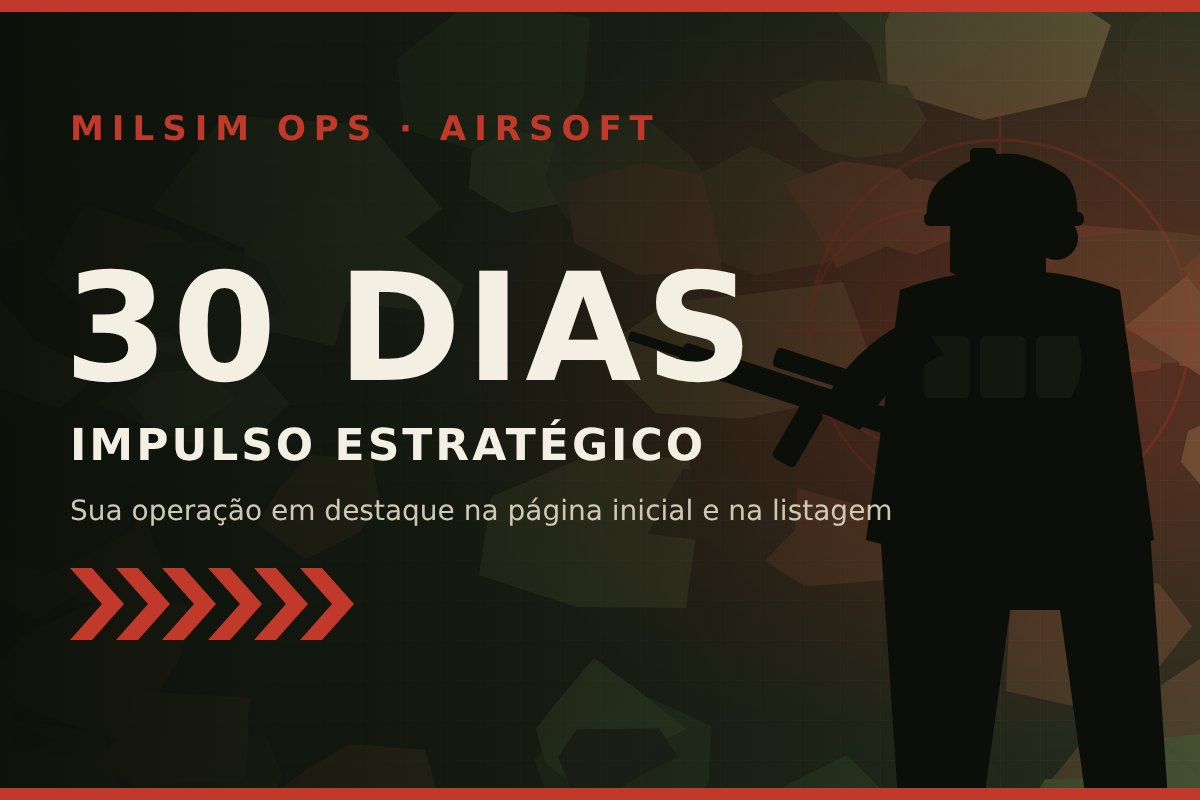
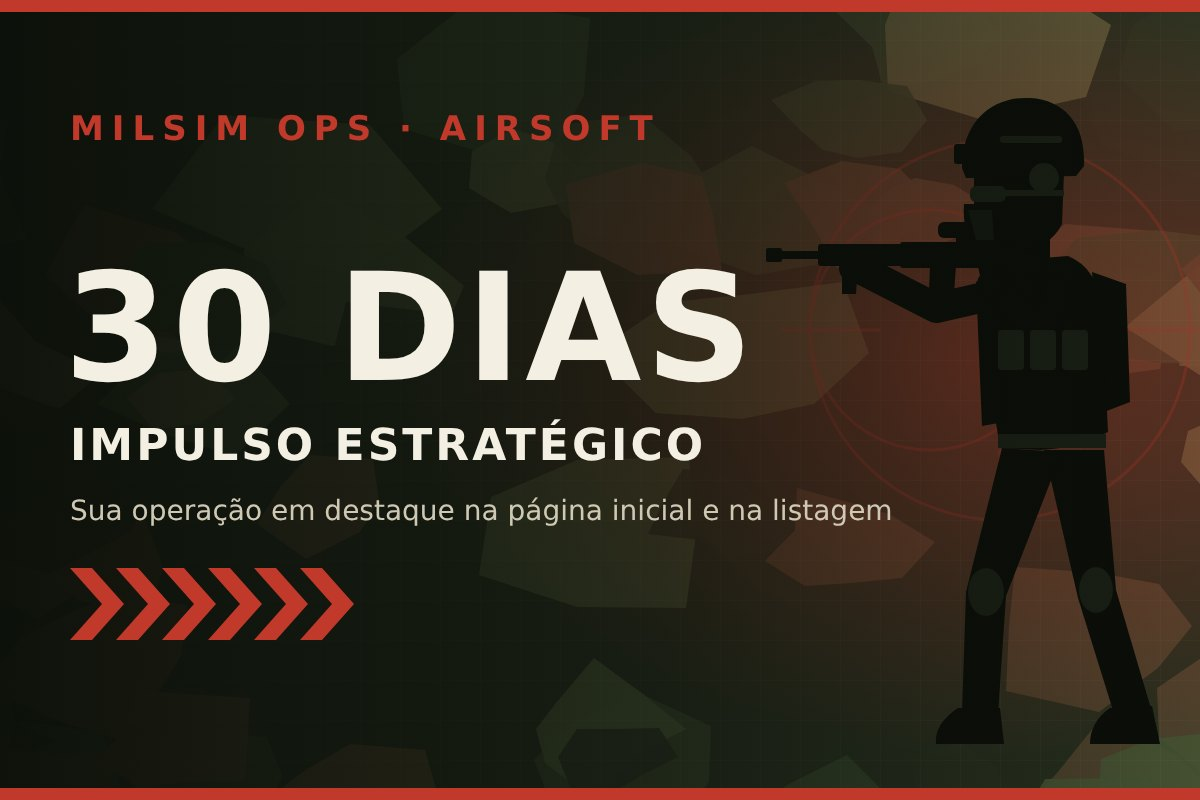
Impulsos: nova silhueta de jogador de airsoft nas imagens dos 6 tipos
Troca só o desenho do jogador (postura de tiro, capacete, óculos, máscara,
colete, fuzil com mira); fundo, textos e cores ficam iguais.

Claude-Session: https://claude.ai/code/session_01RaLvxWnWrGCJFbqJLitaMx

Changed region(s): [[0.5242, 0.125, 0.9867, 1.0]]

diff --git a/scripts/imagens-impulsos.py b/scripts/imagens-impulsos.py
@@ -19,32 +19,55 @@ def camo(seed):
         out.append(f'<polygon points="{" ".join(pts)}" fill="{r.choice(cores)}" opacity="0.9"/>')
     return "\n".join(out)
 # operator silhouette kneeling with rifle, right side
-OPERADOR='''<g transform="translate(820,120)" fill="#0b0e09">
- <!-- capacete com NVG e fone -->
- <path d="M120 60 q60 -50 125 -6 q14 14 12 44 l-150 0 q-2 -24 13 -38z"/>
- <rect x="104" y="92" width="160" height="14" rx="6"/>
- <rect x="150" y="28" width="26" height="30" rx="5"/>
- <circle cx="236" cy="118" r="22"/>
- <!-- rosto e pescoço -->
- <path d="M130 106 h96 v46 q-48 26 -96 0z"/>
- <!-- tronco com plate carrier -->
- <path d="M80 170 q110 -40 220 0 l34 250 q-144 40 -288 0z"/>
- <g fill="#161c12"><rect x="104" y="216" width="46" height="62" rx="6"/><rect x="160" y="216" width="46" height="62" rx="6"/><rect x="216" y="216" width="46" height="62" rx="6"/></g>
- <!-- braço de apoio -->
- <path d="M96 196 q-70 34 -96 96 l40 18 q30 -50 84 -76z"/>
- <!-- fuzil apontado para baixo, à esquerda -->
- <g transform="rotate(18 60 300)">
-  <rect x="-150" y="286" width="300" height="26" rx="6"/>
-  <rect x="-205" y="292" width="62" height="10" rx="3"/>
-  <rect x="-60" y="262" width="110" height="20" rx="5"/>
-  <rect x="-20" y="310" width="26" height="62" rx="5" transform="rotate(12 -7 310)"/>
-  <rect x="70" y="310" width="22" height="46" rx="5" transform="rotate(-10 81 310)"/>
-  <path d="M150 284 l90 -6 l12 52 l-102 -6z"/>
+OPERADOR='''<g fill="#0a0d08">
+ <!-- jogador de airsoft de perfil, em postura de tiro, fuzil no ombro apontando para a esquerda -->
+ <!-- mochila de hidratação -->
+ <path d="M1092 272 L1126 284 L1130 402 L1104 412 Z"/>
+ <!-- perna de trás, esticada -->
+ <path d="M1044 450 L1104 450 L1116 590 L1152 712 L1116 720 L1078 598 Z"/>
+ <path d="M1110 708 L1152 706 L1160 744 L1090 744 Q1090 722 1110 708 Z"/>
+ <!-- perna da frente, joelho flexionado -->
+ <path d="M1002 448 L1062 452 L1006 596 L998 714 L962 714 L966 592 Z"/>
+ <path d="M958 708 L1000 708 L1004 744 L936 744 Q934 724 958 708 Z"/>
+ <!-- tronco com colete -->
+ <path d="M990 262 L1068 256 Q1098 268 1102 310 L1108 432 Q1078 448 1040 450 L1000 448 Q984 360 990 262 Z"/>
+ <path d="M976 282 L998 270 L1004 422 L982 426 Z"/>
+ <!-- pescoço, rosto com máscara, capacete -->
+ <rect x="1004" y="236" width="46" height="34"/>
+ <path d="M974 172 L1064 172 L1062 224 Q1050 248 1020 250 L992 248 Q978 240 974 224 Z"/>
+ <path d="M964 204 L994 204 L998 246 L974 246 Q962 230 964 204 Z"/>
+ <path d="M962 168 C962 118 996 96 1030 98 C1066 100 1086 126 1084 166 L1076 176 L966 178 Z"/>
+ <rect x="954" y="144" width="14" height="20" rx="3"/>
+ <!-- fuzil -->
+ <path d="M1000 246 L1046 250 L1048 292 L1014 296 L996 270 Z"/>
+ <rect x="900" y="242" width="106" height="26" rx="3"/>
+ <rect x="938" y="222" width="52" height="16" rx="6"/>
+ <rect x="956" y="236" width="16" height="8"/>
+ <path d="M930 266 L956 266 L952 320 L928 316 Z"/>
+ <path d="M978 266 L994 266 L1002 304 L986 306 Z"/>
+ <rect x="818" y="244" width="84" height="22" rx="3"/>
+ <rect x="782" y="251" width="38" height="8"/>
+ <rect x="766" y="248" width="16" height="14" rx="2"/>
+ <path d="M842 264 L858 264 L856 294 L842 294 Z"/>
+ <!-- braços: apoio na empunhadura da frente e mão no gatilho -->
+ <path d="M1024 288 L936 308 L862 270" fill="none" stroke="#0a0d08" stroke-width="30" stroke-linecap="round" stroke-linejoin="round"/>
+ <circle cx="854" cy="268" r="15"/>
+ <path d="M1056 290 L1046 336 L994 286" fill="none" stroke="#0a0d08" stroke-width="26" stroke-linecap="round" stroke-linejoin="round"/>
+ <circle cx="990" cy="284" r="13"/>
+ <!-- detalhes: óculos, protetor auricular, trilho, bolsos, cinto, joelheiras -->
+ <g fill="#1b2216">
+  <rect x="970" y="186" width="36" height="16" rx="6"/>
+  <rect x="1004" y="190" width="60" height="6"/>
+  <circle cx="1044" cy="178" r="15"/>
+  <rect x="1000" y="136" width="62" height="7" rx="3"/>
+  <rect x="998" y="330" width="26" height="40" rx="4"/>
+  <rect x="1030" y="330" width="26" height="40" rx="4"/>
+  <rect x="1062" y="330" width="26" height="40" rx="4"/>
+  <rect x="998" y="434" width="108" height="14"/>
+  <ellipse cx="986" cy="592" rx="18" ry="24"/>
+  <ellipse cx="1096" cy="590" rx="17" ry="23"/>
+  <path d="M968 210 L992 210 L994 240 L976 240 Z" opacity="0.6"/>
  </g>
- <!-- braço do gatilho -->
- <path d="M300 200 q30 70 -40 128 l-28 -26 q40 -40 26 -84z"/>
- <!-- pernas -->
- <path d="M60 410 h270 l20 300 h-80 l-30 -220 h-50 l-30 220 h-80z"/>
 </g>'''
 for i,(id_,dur,titulo,cor,nivel) in enumerate(TIPOS):
     chevrons="".join(f'<path d="M{70+k*46} 640 l32 -36 l-32 -36 h22 l32 36 l-32 36z" fill="{cor if k<nivel else "#ffffff"}" opacity="{1 if k<nivel else 0.18}"/>' for k in range(6))
